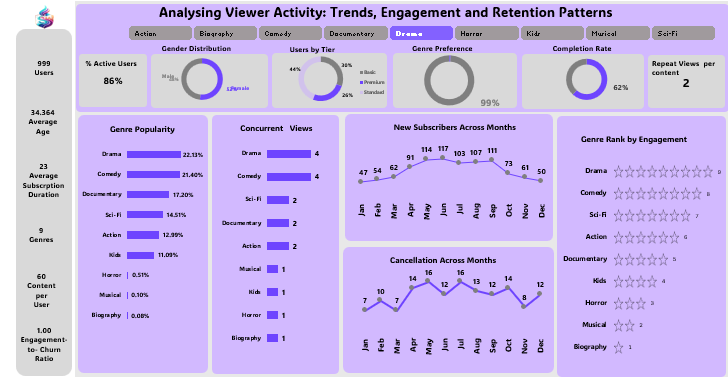
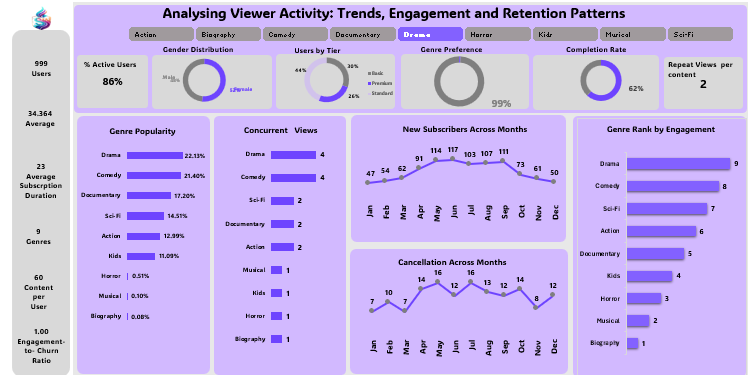
update app, readme

diff --git a/streamlit_app.py b/streamlit_app.py
@@ -1,5 +1,6 @@
 import streamlit as st
 import base64
+import streamlit.components.v1 as components
 
 # --------------------------------------------------
 # PAGE CONFIG
@@ -90,9 +91,14 @@ tab1, tab2, tab3 = st.tabs([
 with tab1:
     st.markdown("### Multimedia Performance Dashboard")
 
-    st.components.v1.iframe(
-        "https://1drv.ms/x/c/62ed36bcf96b63c6/IQALntCNbXfgS6l-xjpGRmwIAR937NlhVHD-3xxKZUZfdFQ?e=YrzfZO",
-        height=780,
+    # This is the specific URL you provided
+    excel_url = "https://1drv.ms/x/c/62ed36bcf96b63c6/IQQLntCNbXfgS6l-xjpGRmwIAbr01Fye9Oq5CA5PtXMHNy4?em=2&wdAllowInteractivity=False&wdHideGridlines=True&wdHideHeaders=True&wdInConfigurator=True&wdInConfigurator=True"
+
+    # We use height=800 to match your GrandStay look 
+    # The width will automatically be 100% of your 1220px container
+    components.iframe(
+        excel_url,
+        height=800, 
         scrolling=True
     )
 
